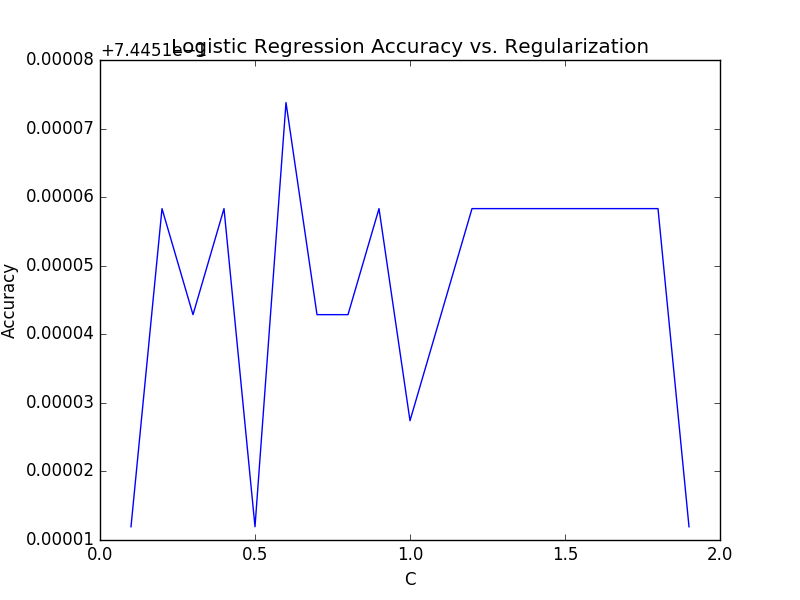
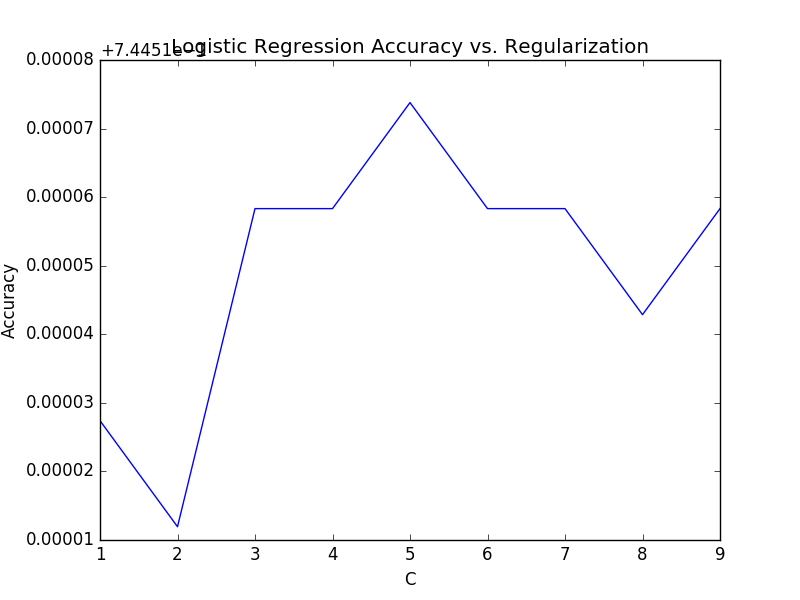
log reg, this is as good as it gets

diff --git a/logreg.py b/logreg.py
@@ -6,7 +6,7 @@ import matplotlib.pyplot as plt
 # Get the normalized data
 X_train, y_train, X_test = ut.import_data()
 
-C_vals = np.arange(0.5, 5, 0.5)
+C_vals = np.arange(1.0, 10.0, 1.0)
 scores = []
 best_score = 0
 best_C = 0
